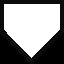
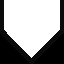
Bug fixes + many more!
- Fixed the scrolling bug.
- Added new platform type (C).
- Doubled the rainbow's colour-changing speed.
- Made the game have a little more difficulty.
- Made a spike blend in to ground (way too proud of that one).

Changed region(s): [[0.0625, 0.0, 0.9375, 0.0625]]

diff --git a/Gam e.py b/Gam e.py
@@ -1,4 +1,4 @@
-# Made by TruKave Co. ()
+    # Made by TruKave Co. ()
 # Help from Jess & Seth
 
 import pygame
@@ -8,7 +8,7 @@ import sys
 import os
 import time
 
-noclip = True
+noclip = False
 
 # OBJECTS:
 class Player(pygame.sprite.Sprite):
@@ -70,21 +70,27 @@ class Player(pygame.sprite.Sprite):
                 self.momentumY = 0
                 self.collide_delta = 0 #stop jumping
         enemy_hit_list = pygame.sprite.spritecollide(self, enemy_list, False)
+        static_hit_list = pygame.sprite.spritecollide(self, static_list, False)
         '''for enemy in enemy_hit_list:
                 self.rect.x = 100
                 self.deaths += 1
                 print(self.deaths)'''
         if self.damage == 0:
             for enemy in enemy_hit_list:
-                if not self.rect.contains(enemy):
+                if self.rect.colliderect(enemy):
                     self.damage = self.rect.colliderect(enemy)
                     print(self.deaths)
-        if self.damage == 1 and noclip == False:
-            idx = self.rect.collidelist(enemy_hit_list)
-            if idx == -1:
-                self.damage = 0
-                self.deaths += 1
-                self.rect.x = 100
+            for static in static_hit_list:
+                if self.rect.colliderect(static):
+                    self.damage = self.rect.colliderect(static)
+                    print(self.deaths)
+        if self.damage == 1:
+            if not noclip:
+                idx = self.rect.collidelist(enemy_hit_list)
+                if idx == -1:
+                    self.damage = 0
+                    self.deaths += 1
+                    self.rect.x = 100
                     
     def jump (self, ground_list):
         self.jump_delta = 0
@@ -147,9 +153,10 @@ class Static(pygame.sprite.Sprite):
 def level1():
     #create level 1
     static_list = pygame.sprite.Group()
-    block = Static(800, 836, 768, 118,os.path.join('images', 'enemyu.png'))
-    static_list.add(block) #after each block
-
+    spike = Static(800, 846, 64, 64,os.path.join('images', 'enemyu b.png'))
+    spike0 = Static(800, 50, 64, 500,os.path.join('images', 'enemy c.png'))
+    static_list.add(spike) #after each block
+    static_list.add(spike0)
     return static_list
 
 # SETUP
@@ -191,7 +198,7 @@ forwardX = 600
 backwardX = 50
 
 #enemy code
-enemy = Enemy(500,836, 'enemy b.png')
+enemy = Enemy(500,836, 'enemy.png')
 enemy_list = pygame.sprite.Group()
 enemy_list.add(enemy)
                         
@@ -230,36 +237,36 @@ while main == True:
             if event.key == ord('d'):
                 print("Right")
                 player.control(movesteps, 0)
-        #scroll forward
-        if player.rect.x >= forwardX:
-            scroll = player.rect.x - forwardX
-            player.rect.x = forwardX
-            for static in static_list:
-                static.rect.x -= scroll
-            for enemy in enemy_list:
-                enemy.rect.x -= scroll
-        #scroll backward
-        if player.rect.x <= backwardX:
-            scroll = player.rect.x + backwardX
-            #min(1, (backwardX - player.rect.x))
-            player.rect.x = backwardX
-            for static in static_list:
-                static.rect.x += scroll
-            for enemy in enemy_list:
-                enemy.rect.x += scroll
+    #scroll forward
+    if player.rect.x >= forwardX:
+        scroll = player.rect.x - forwardX
+        player.rect.x = forwardX
+        for static in static_list:
+            static.rect.x -= scroll
+        for enemy in enemy_list:
+            enemy.rect.x -= scroll
+    #scroll backward
+    if player.rect.x <= backwardX:
+        scroll = player.rect.x + backwardX
+        #min(1, (backwardX - player.rect.x))
+        player.rect.x = backwardX
+        for static in static_list:
+            static.rect.x += scroll
+        for enemy in enemy_list:
+            enemy.rect.x += scroll
             
     if redin:
-        a += 0.1
+        a += 0.2
     elif redde:
-        a -= 0.1
+        a -= 0.2
     if greenin:
-        b += 0.1
+        b += 0.2
     elif greende:
-        b -= 0.1
+        b -= 0.2
     if bluein:
-        c += 0.1
+        c += 0.2
     elif bluede:
-        c -= 0.1
+        c -= 0.2
     if a > 254:
         bluede = False
         redin = False
@@ -279,12 +286,12 @@ while main == True:
         redin = True
         print('red')
     screen.fill([a,b,c])
-
+    
+    ground_list.draw(screen)
     static_list.draw(screen) #draw platform on screen
     player.gravity() 
     player.update(enemy_list, ground_list)
     movingsprites.draw(screen)
-    ground_list.draw(screen)
     enemy_list.draw(screen)
     enemy.move()
     pygame.display.flip()
